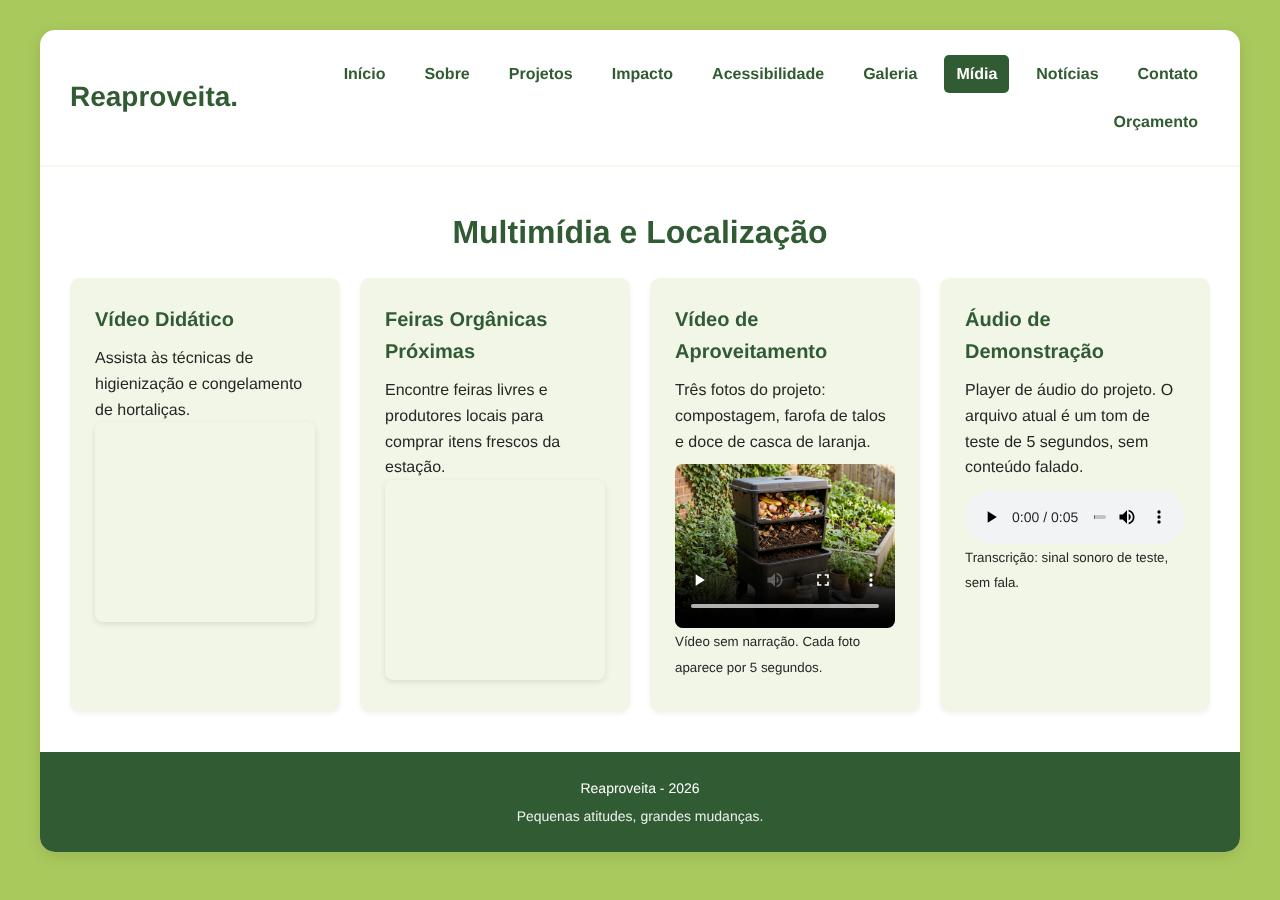
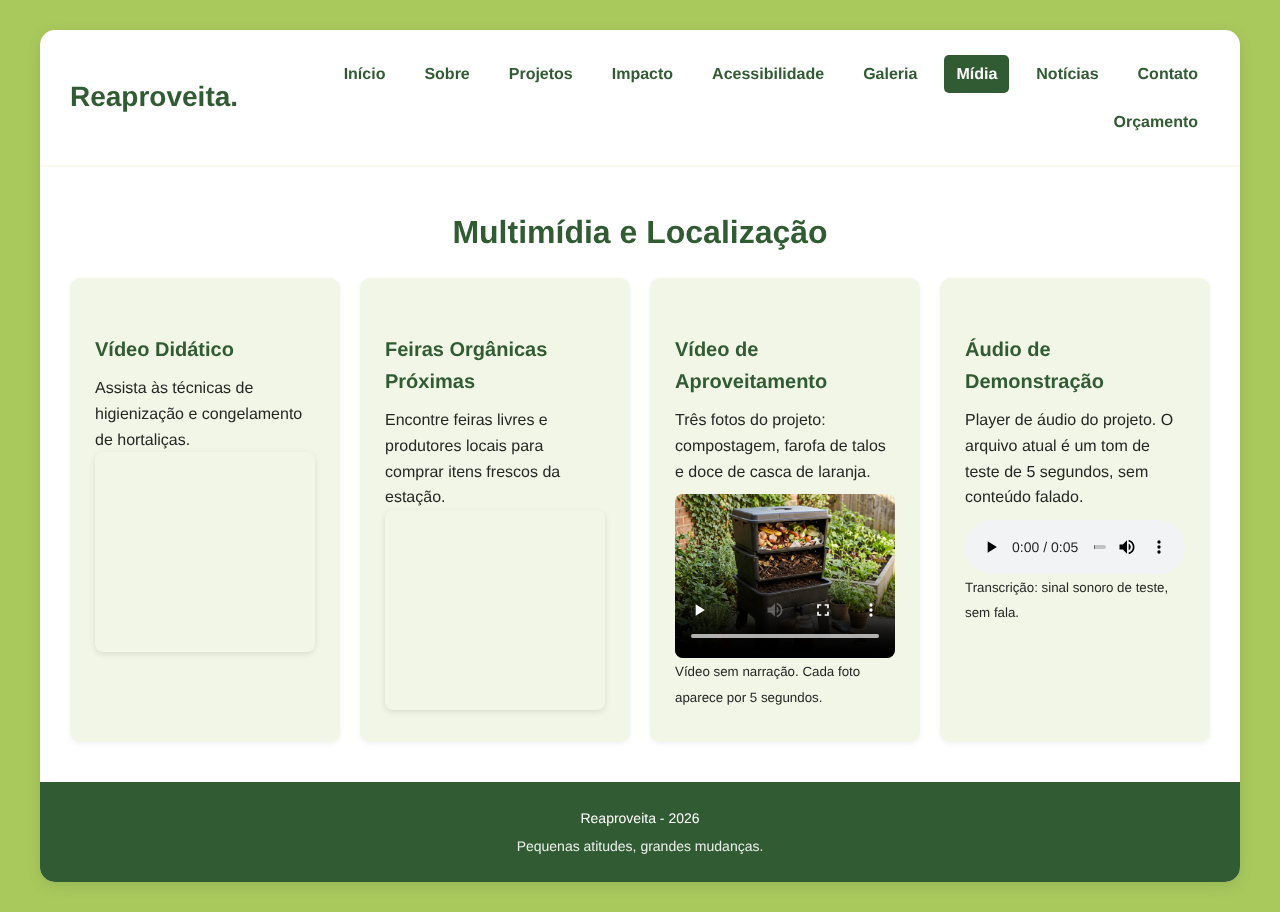
Validação W3C e Lighthouse: corrige títulos, iframes e info do Railway
- h3 após h1 virou h2 nas páginas afetadas (0 erros no validador W3C)
- width=100% removido de iframes e vídeo
- orçamento: Railway com crédito de US$5 incluído; fontes consultadas em 11/11/2026
- docs: resultados de W3C e Lighthouse registrados

Claude-Session: https://claude.ai/code/session_014HnD9EGe9nh4S249P2tmEV

diff --git a/midia.html b/midia.html
@@ -32,26 +32,26 @@
 
                 <div class="cartoes">
                     <article class="cartao">
-                        <h3>Vídeo Didático</h3>
+                        <h2>Vídeo Didático</h2>
                         <p>Assista às técnicas de higienização e congelamento de hortaliças.</p>
-                        <iframe width="100%" height="200" src="https://www.youtube.com/embed/lVQJaA6VBEQ" title="Vídeo explicativo sobre higienização de hortaliças" style="border:0; border-radius:8px;"></iframe>
+                        <iframe height="200" src="https://www.youtube.com/embed/lVQJaA6VBEQ" title="Vídeo explicativo sobre higienização de hortaliças" style="border:0; border-radius:8px;"></iframe>
                     </article>
                     <article class="cartao">
-                        <h3>Feiras Orgânicas Próximas</h3>
+                        <h2>Feiras Orgânicas Próximas</h2>
                         <p>Encontre feiras livres e produtores locais para comprar itens frescos da estação.</p>
-                        <iframe src="https://www.google.com/maps/embed?pb=!1m18!1m12!1m3!1d3657.197587842721!2d-46.5601111!3d-23.5361889!2m3!1f0!2f0!3f0!3m2!1i1024!2i768!4f13.1!3m3!1m2!1s0x94ce5eec3a277725%3A0x6a2c262a64704b2b!2sUNICID!5e0!3m2!1spt-BR!2sbr!4v1700000000000!5m2!1spt-BR!2sbr" width="100%" height="200" style="border:0; border-radius:8px;" allowfullscreen="" loading="lazy" title="Mapa de feiras orgânicas próximas à UNICID"></iframe>
+                        <iframe src="https://www.google.com/maps/embed?pb=!1m18!1m12!1m3!1d3657.197587842721!2d-46.5601111!3d-23.5361889!2m3!1f0!2f0!3f0!3m2!1i1024!2i768!4f13.1!3m3!1m2!1s0x94ce5eec3a277725%3A0x6a2c262a64704b2b!2sUNICID!5e0!3m2!1spt-BR!2sbr!4v1700000000000!5m2!1spt-BR!2sbr" height="200" style="border:0; border-radius:8px;" allowfullscreen="" loading="lazy" title="Mapa de feiras orgânicas próximas à UNICID"></iframe>
                     </article>
                     <article class="cartao">
-                        <h3>Vídeo de Aproveitamento</h3>
+                        <h2>Vídeo de Aproveitamento</h2>
                         <p>Três fotos do projeto: compostagem, farofa de talos e doce de casca de laranja.</p>
-                        <video controls preload="metadata" poster="img/compostagem.jpg" width="100%" aria-describedby="desc-video">
+                        <video controls preload="metadata" poster="img/compostagem.jpg" aria-describedby="desc-video">
                             <source src="assets/video-aproveitamento.mp4" type="video/mp4">
                             Seu navegador não reproduz vídeo. <a href="assets/video-aproveitamento.mp4">Baixe o vídeo</a>.
                         </video>
                         <p id="desc-video"><small>Vídeo sem narração. Cada foto aparece por 5 segundos.</small></p>
                     </article>
                     <article class="cartao">
-                        <h3>Áudio de Demonstração</h3>
+                        <h2>Áudio de Demonstração</h2>
                         <p>Player de áudio do projeto. O arquivo atual é um tom de teste de 5 segundos, sem conteúdo falado.</p>
                         <audio controls preload="none" aria-describedby="desc-audio">
                             <source src="assets/audio-demonstracao.mp3" type="audio/mpeg">

diff --git a/orcamento_hospedagem.html b/orcamento_hospedagem.html
@@ -47,7 +47,7 @@
                             <tr>
                                 <th scope="row">Railway</th>
                                 <td>Hospedagem (PaaS)</td>
-                                <td>US$ 5,00/mês (cerca de US$ 60/ano)</td>
+                                <td>US$ 5,00/mês, com US$ 5 de crédito de uso incluído (cerca de US$ 60/ano)</td>
                                 <td>Deploy automático a cada commit no GitHub e HTTPS automático.</td>
                             </tr>
                             <tr>
@@ -111,7 +111,7 @@
                     <li><strong>Domínio: Registro.br (.com.br).</strong> É a opção de menor custo anual entre as três, em reais, sem variação de câmbio, e é o registro oficial do Brasil.</li>
                     <li><strong>Custo anual estimado da escolha:</strong> US$ 60 (Railway) + R$ 40 (.com.br). O total em reais depende do câmbio do dia.</li>
                 </ul>
-                <p class="nota-fonte">Fontes dos valores: Registro.br (preço de .com.br citado em homehost.com.br, atualizado em 28/09/2026); Namecheap (domainoffer.net, atualizado em 25/10/2026); Hostinger (hostinger.com/br, atualizado em 10/11/2026). Railway e Vercel: confirmar nos sites oficiais antes da entrega.</p>
+                <p class="nota-fonte">Fontes dos valores: Registro.br (preço de .com.br citado em homehost.com.br, atualizado em 28/09/2026); Namecheap (domainoffer.net, atualizado em 25/10/2026); Hostinger (hostinger.com/br, atualizado em 10/11/2026). Railway (railway.com/pricing) e Vercel (vercel.com/docs/plans/hobby): consultados em 11/11/2026.</p>
             </section>
         </main>
 

diff --git a/projetos.html b/projetos.html
@@ -33,17 +33,17 @@
 
                 <div class="cartoes">
                     <article class="cartao">
-                        <h3>Oficinas de Culinária Sustentável</h3>
+                        <h2>Oficinas de Culinária Sustentável</h2>
                         <p>Aulas práticas ensinando a preparar geleias, doces e farinhas com cascas de frutas e ramas vegetais.</p>
                         <a href="contato.html">Seja voluntário</a>
                     </article>
                     <article class="cartao">
-                        <h3>Compostagem Doméstica</h3>
+                        <h2>Compostagem Doméstica</h2>
                         <p>Guia passo a passo para transformar resíduos orgânicos inutilizáveis em adubo natural de alta qualidade.</p>
                         <a href="contato.html">Participe</a>
                     </article>
                     <article class="cartao">
-                        <h3>Hortas Comunitárias</h3>
+                        <h2>Hortas Comunitárias</h2>
                         <p>Criação e manutenção de espaços comunitários de cultivo para promover soberania alimentar urbana.</p>
                         <a href="contato.html">Apoie</a>
                     </article>

diff --git a/noticias.html b/noticias.html
@@ -32,15 +32,15 @@
 
                 <div class="cartoes">
                     <article class="cartao">
-                        <h3>Alimentos da Estação</h3>
+                        <h2>Alimentos da Estação</h2>
                         <p>Comprar produtos na safra garante preços mais baixos, menor impacto de pesticidas e maior valor nutritivo.</p>
                     </article>
                     <article class="cartao">
-                        <h3>Como Armazenar Folhas</h3>
+                        <h2>Como Armazenar Folhas</h2>
                         <p>Lave, seque bem e guarde em potes herméticos intercalando camadas com papel toalha para durar até duas semanas.</p>
                     </article>
                     <article class="cartao">
-                        <h3>Evite Compras por Impulso</h3>
+                        <h2>Evite Compras por Impulso</h2>
                         <p>Elabore um cardápio semanal e faça uma lista rigorosa antes de ir ao mercado ou feira livre.</p>
                     </article>
                 </div>

diff --git a/sobre.html b/sobre.html
@@ -33,15 +33,15 @@
 
                 <div class="cartoes">
                     <article class="cartao">
-                        <h3>Nossa Missão</h3>
+                        <h2>Nossa Missão</h2>
                         <p>Educar e capacitar famílias e comunidades sobre o aproveitamento integral de alimentos de forma simples e sustentável.</p>
                     </article>
                     <article class="cartao">
-                        <h3>Nossa Visão</h3>
+                        <h2>Nossa Visão</h2>
                         <p>Tornar-se referência regional em iniciativas educativas digitais de consumo consciente e sustentabilidade.</p>
                     </article>
                     <article class="cartao">
-                        <h3>Nossos Valores</h3>
+                        <h2>Nossos Valores</h2>
                         <p>Sustentabilidade, responsabilidade social, acessibilidade digital, inovação e consumo consciente.</p>
                     </article>
                 </div>

diff --git a/acessibilidade.html b/acessibilidade.html
@@ -33,15 +33,15 @@
 
                 <div class="cartoes">
                     <article class="cartao">
-                        <h3>Semântica HTML5</h3>
+                        <h2>Semântica HTML5</h2>
                         <p>Estrutura organizada por cabeçalhos, seções e marcos para navegação por leitores de tela.</p>
                     </article>
                     <article class="cartao">
-                        <h3>Navegação por Teclado</h3>
+                        <h2>Navegação por Teclado</h2>
                         <p>Todos os links, botões e campos de formulário contam com indicador visual de foco perceptível.</p>
                     </article>
                     <article class="cartao">
-                        <h3>Contraste Adequado</h3>
+                        <h2>Contraste Adequado</h2>
                         <p>Cores selecionadas para manter taxa de contraste visual mínima de 4,5:1 entre texto e fundo.</p>
                     </article>
                 </div>

diff --git a/impacto.html b/impacto.html
@@ -33,15 +33,15 @@
 
                 <div class="cartoes">
                     <article class="cartao">
-                        <h3>35%</h3>
+                        <h2>35%</h2>
                         <p>Redução média no desperdício de resíduos orgânicos nas famílias participantes.</p>
                     </article>
                     <article class="cartao">
-                        <h3>R$ 280,00</h3>
+                        <h2>R$ 280,00</h2>
                         <p>Economia mensal estimada no orçamento de feira de uma família de quatro pessoas.</p>
                     </article>
                     <article class="cartao">
-                        <h3>+1.200</h3>
+                        <h2>+1.200</h2>
                         <p>Pessoas capacitadas através de nossas cartilhas digitais e oficinas presenciais.</p>
                     </article>
                 </div>

diff --git a/estilos/style.css b/estilos/style.css
@@ -152,7 +152,7 @@ body {
     box-shadow: 0 2px 5px rgba(0, 0, 0, 0.05);
 }
 
-.cartao h3 {
+.cartao h2 {
     color: var(--cor-primaria);
     margin-bottom: 10px;
     font-size: 20px;

diff --git a/docs/evidencias-testes.md b/docs/evidencias-testes.md
@@ -27,17 +27,33 @@ Testes feitos em 11/11/2026 com Chromium (Playwright) e html-validate. Prints em
 
 **Resultado:** 25 de 25 verificações passaram.
 
-## 2. Validação HTML (html-validate)
+## 2. Validação W3C (motor oficial Nu, `vnu`)
 
-- 10 páginas analisadas.
-- Erros de `no-implicit-button-type` e `wcag/h63` corrigidos.
-- 15 erros restantes, todos do tipo `no-inline-style`: atributos `style` inline, que já existiam no projeto original e são válidos no W3C.
-- **Pendente:** rodar o W3C Validator (validator.w3.org) em cada página e anexar o resultado aqui.
+Resultado final: **0 erros nas 10 páginas HTML**.
 
-## 3. Acessibilidade
+Correções feitas durante a validação:
+- Títulos `h3` que vinham logo após o `h1` passaram a ser `h2` (acessibilidade, impacto, midia, noticias, projetos e sobre).
+- Atributo `width="100%"` removido de iframes e de vídeo (a largura já vem do CSS).
+
+Observação: o `vnu` também foi rodado no CSS como se fosse HTML e acusou ausência de `<!DOCTYPE>`. Isso é falso positivo, porque o CSS não é HTML. Para validar o CSS, use o **W3C CSS Validator** (jigsaw.w3.org/css-validator), que ainda deve ser feito pela equipe.
+
+## 2.1 Validação de boas práticas (html-validate)
+- 15 avisos restantes, todos `no-inline-style`: atributos `style` inline, que já existiam no projeto original e são válidos no W3C.
+
+## 3. Lighthouse (Chromium, versão 12)
+
+| Página | Acessibilidade | Boas práticas | SEO |
+|---|---|---|---|
+| index.html | 100 | 96 | 100 |
+| contato.html | 100 | 96 | 100 |
+| midia.html | 100 | 96 | 100 |
+| orcamento_hospedagem.html | 100 | 96 | 100 |
+
+- A perda de 4 pontos em boas práticas vem do item “errors-in-console”. Provavelmente são os iframes de terceiros (YouTube e Google Maps), que não carregam no ambiente de teste. Não foi confirmado: abrir o site no navegador e conferir o console.
+
+## 4. Acessibilidade (verificada por código e por testes)
 - `lang="pt-BR"` em todas as páginas.
-- Um `<h1>` por página.
+- Um `<h1>` por página e hierarquia de títulos sem saltos.
 - `alt` em todas as imagens.
-- Campos com `<label for>`.
+- Campos com `<label for>` e `aria-describedby` nas mensagens de erro.
 - Foco visível (`outline`).
-- **Pendente:** rodar o Lighthouse no Chrome DevTools e anexar o print.

diff --git a/docs/uso-ia.md b/docs/uso-ia.md
@@ -11,6 +11,7 @@
 | Data | Prompt (resumo) | Resultado | Aceito | Corrigido |
 |---|---|---|---|---|
 | 11/11/2026 | Pedido para completar o projeto com base na lista de requisitos da 2ª entrega. | Validação em JS, mídia, pasta `js/`, menu responsivo, orçamento com três hospedagens e três domínios, e pasta `docs/`. | Sim, após revisão de código e testes no navegador. | Foram corrigidos: (1) o script do FAQ estava duplicado na página; (2) um marcador provisório ficou no formulário; (3) os preços da hospedagem foram confirmados em fontes públicas. |
+| 11/11/2026 | Pedido para fazer “o resto que consegue”: validação W3C, Lighthouse e preços. | Validação com o motor oficial (`vnu`), correção de títulos e atributos, Lighthouse, preços de Railway e Vercel conferidos. | Sim. | Foram corrigidos: títulos `h3` depois de `h1`, `width="100%"` em iframes, e a informação de crédito do Railway. |
 | [data] | [prompt] | [resultado] | [sim/não] | [o que foi corrigido] |
 
 ## Regras e contexto
@@ -18,4 +19,5 @@
 
 ## Limitações da IA encontradas
 - Não foi possível gerar narração em português (sem acesso ao serviço de voz). Por isso o áudio é um tom de teste.
+- Não foi possível publicar nem atualizar o site a partir do ambiente da IA sem permissão de escrita no repositório.
 - A IA não acessa o GitHub para publicar: a equipe precisa fazer o push e conferir o deploy no Railway.
